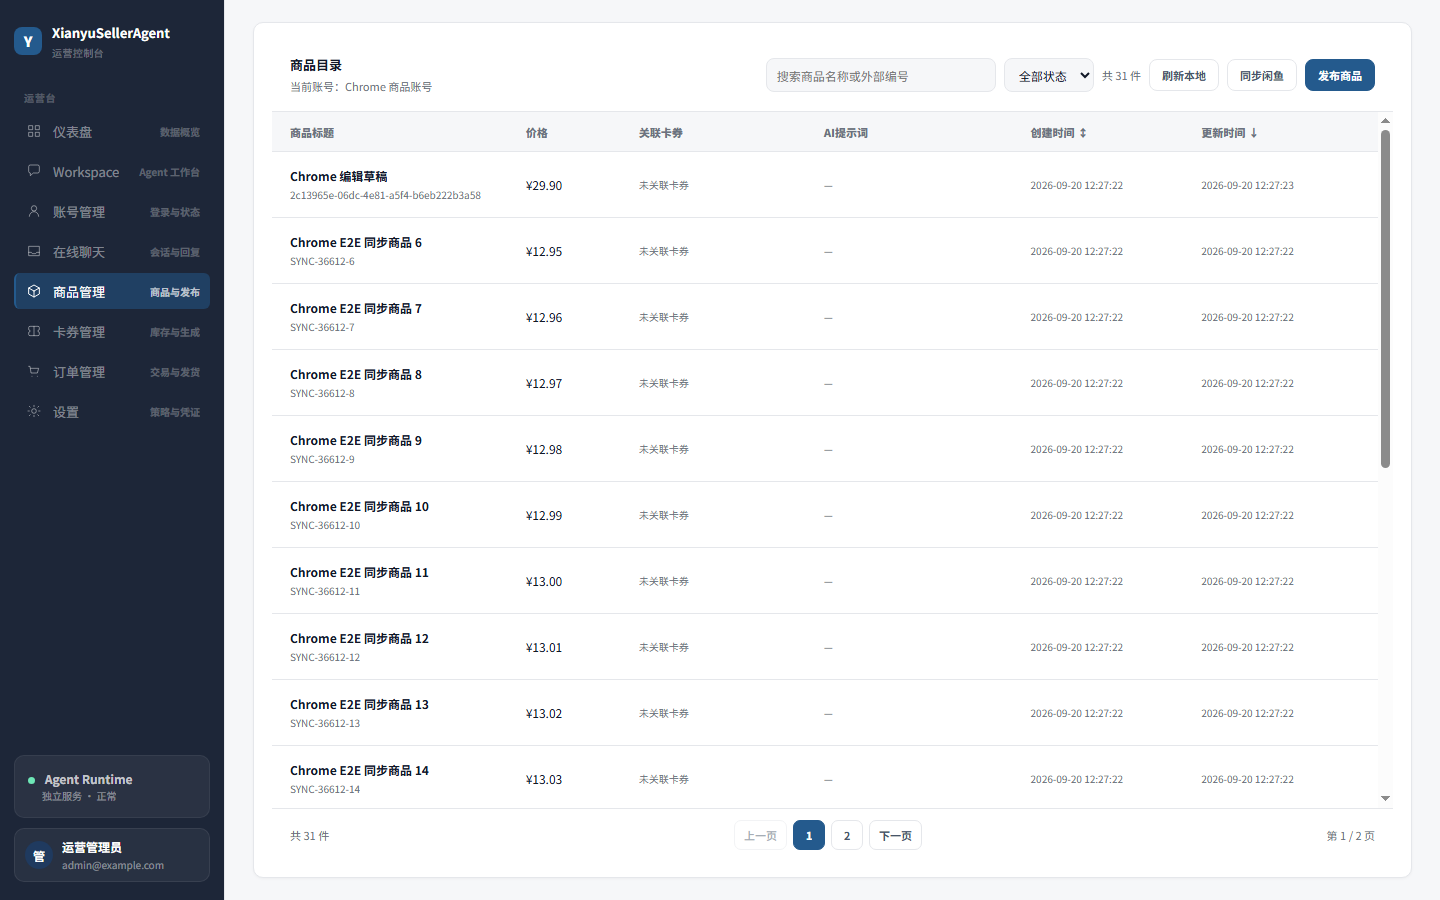
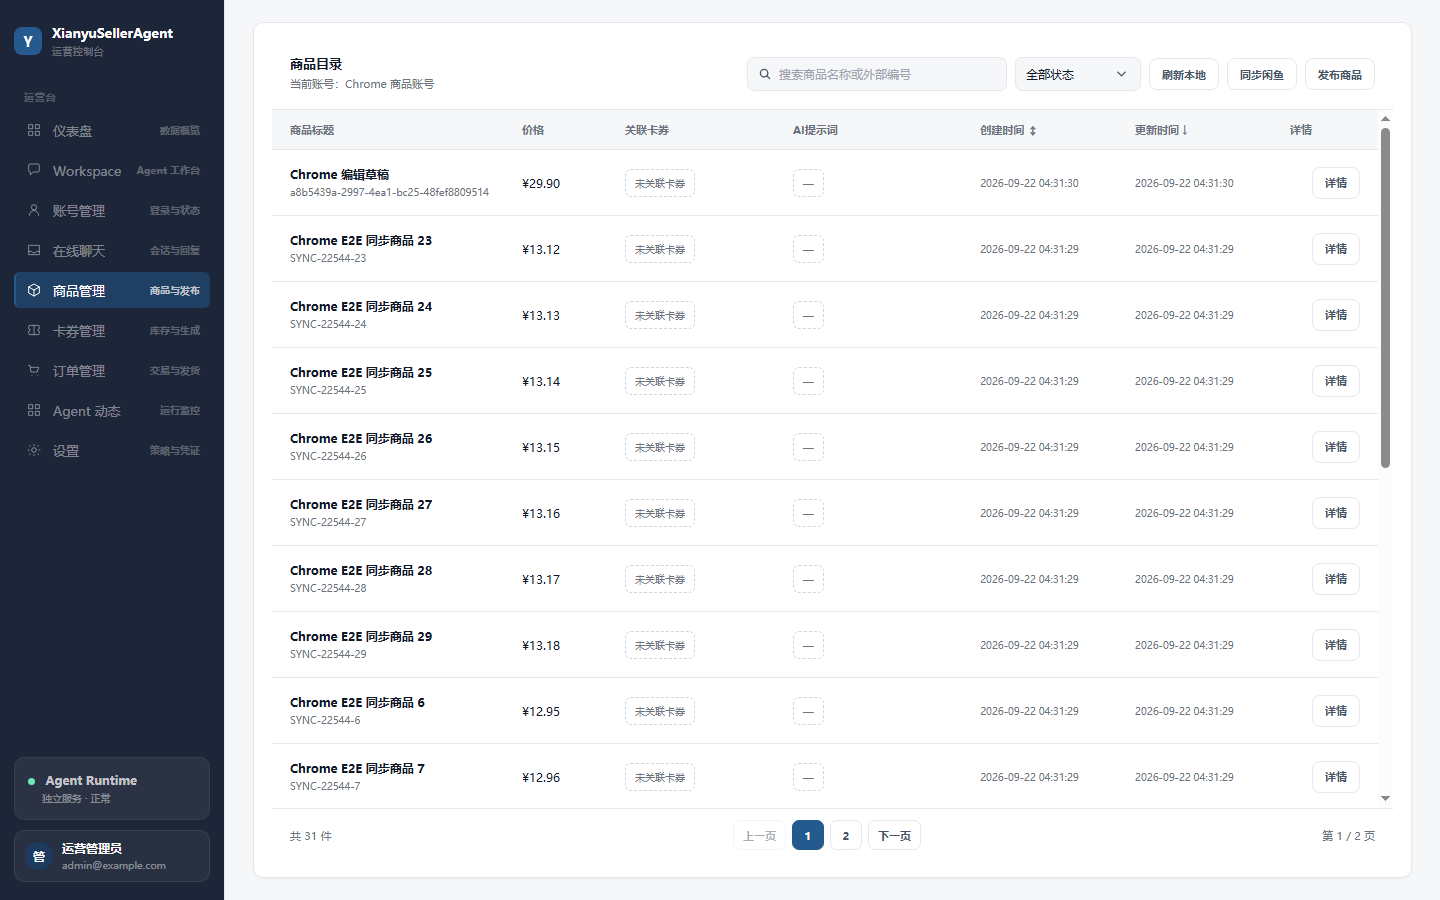
feat(商品详情): 接入系统登录态与数据库优先详情抽屉

diff --git a/apps/web/src/features/products/components/XianyuDetailDrawer.tsx b/apps/web/src/features/products/components/XianyuDetailDrawer.tsx
@@ -1,3 +1,4 @@
+import { useState } from 'react';
 import type { XianyuDetailState, XianyuItemDetailVM, XianyuItemImageVM } from '../types';
 
 export function XianyuDetailDrawer({ state, onClose, onRetry, onSync }: { state: XianyuDetailState; onClose: () => void; onRetry: () => void; onSync: () => void }) {
@@ -10,10 +11,11 @@ export function XianyuDetailDrawer({ state, onClose, onRetry, onSync }: { state:
           <p className="eyebrow">Xianyu Item Detail</p>
           <h2>{detail?.title ?? '闲鱼商品详情'}</h2>
           {detail?.itemId && <p className="xianyu-detail-subtitle">闲鱼商品 ID：{detail.itemId}</p>}
+          {detail && <p className="xianyu-detail-source-note">{detail.cached ? '已读取数据库中的已保存详情' : '已从闲鱼同步并保存详情'}</p>}
         </div>
         <div className="products-detail-header-actions"><button className="btn ghost btn-small" type="button" onClick={onSync} disabled={state.phase === 'loading' || !detail}>同步闲鱼</button><button className="icon-button" type="button" aria-label="关闭闲鱼商品详情" onClick={onClose}>×</button></div>
       </header>
-      {state.phase === 'loading' && <div className="products-detail-state" aria-live="polite"><span className="xianyu-detail-spinner" />正在读取并保存闲鱼商品详情…</div>}
+      {state.phase === 'loading' && <div className="products-detail-state" aria-live="polite"><span className="xianyu-detail-spinner" />{state.loadingMode === 'sync' ? '正在同步并保存闲鱼商品详情…' : '正在读取闲鱼商品详情（优先使用已保存缓存）…'}</div>}
       {(state.phase === 'error' || state.phase === 'forbidden') && <div className="products-detail-state products-error" role="alert"><strong>{state.phase === 'forbidden' ? '无权查看闲鱼商品详情' : '闲鱼商品详情加载失败'}</strong><span>{state.error?.message ?? '商品详情不存在或暂时不可用。'}</span>{state.phase === 'error' && state.error?.retryable && <button className="btn ghost" type="button" onClick={onRetry}>重新加载</button>}</div>}
       {state.phase === 'success' && detail && <XianyuDetailContent detail={detail} />}
     </aside>
@@ -70,7 +72,13 @@ function XianyuDetailContent({ detail }: { detail: XianyuItemDetailVM }) {
 
 function ImageTile({ image, index }: { image: XianyuItemImageVM; index: number }) {
   const previewUrl = [image.thumbnailUrl, image.url].find((value) => isRenderableImageUrl(value));
-  return <figure className="xianyu-detail-image">{previewUrl ? <img src={previewUrl} alt={image.alt ?? `商品图片 ${index + 1}`} loading="lazy" /> : <div className="xianyu-detail-image-placeholder">对象存储图片<br /><small>{image.storageKey ?? '等待访问地址'}</small></div>}<figcaption>{image.storageKey ? `对象存储 · ${image.storageKey}` : `图片 ${index + 1}`}</figcaption></figure>;
+  const [status, setStatus] = useState<'loading' | 'loaded' | 'failed'>(previewUrl ? 'loading' : 'failed');
+  const showImage = Boolean(previewUrl && status === 'loaded');
+  return <figure className="xianyu-detail-image">
+    {!showImage && <div className="xianyu-detail-image-placeholder">对象存储图片<br /><small>{image.storageKey ?? '等待访问地址'}</small></div>}
+    {previewUrl && <img src={previewUrl} alt={image.alt ?? `商品图片 ${index + 1}`} loading="lazy" style={{ display: showImage ? 'block' : 'none' }} onLoad={() => setStatus('loaded')} onError={() => setStatus('failed')} />}
+    <figcaption>{image.storageKey ? `对象存储 · ${image.storageKey}` : `图片 ${index + 1}`}</figcaption>
+  </figure>;
 }
 
 function isRenderableImageUrl(value?: string): value is string {

diff --git a/apps/web/src/features/products/controller.ts b/apps/web/src/features/products/controller.ts
@@ -40,6 +40,7 @@ export interface ProductsController {
   openProduct: (productId: string) => Promise<void>;
   closeProduct: () => void;
   openXianyuDetail: (productId: string) => Promise<void>;
+  syncXianyuDetail: (productId: string) => Promise<void>;
   closeXianyuDetail: () => void;
   createDraft: (input: ProductDraftInput) => Promise<ProductVM | null>;
   updateDraft: (productId: string, patch: ProductDraftPatch, configVersion: number) => Promise<ProductVM | null>;
@@ -96,10 +97,23 @@ export function useProductsController(options: { api?: ProductsApi; initialFilte
   const closeProduct = useCallback(() => { detailRequestId.current += 1; setDetail({ phase: 'idle', data: null, error: null }); }, []);
   const openXianyuDetail = useCallback(async (productId: string) => {
     const currentRequest = ++xianyuDetailRequestId.current;
-    setXianyuDetail({ phase: 'loading', productId, data: null, error: null });
+    setXianyuDetail({ phase: 'loading', loadingMode: 'read', productId, data: null, error: null });
     try {
-      // The POST endpoint performs the real MTOP fetch and persists normalized detail
-      // plus object-storage image references. A later GET can rehydrate the same data.
+      // GET reads the persisted snapshot; the backend only fetches live data when
+      // no snapshot exists yet.
+      const data = await productsApi.getXianyuDetail(productId);
+      if (currentRequest !== xianyuDetailRequestId.current) return;
+      setXianyuDetail({ phase: 'success', productId, data, error: null });
+    } catch (error) {
+      if (currentRequest !== xianyuDetailRequestId.current) return;
+      const normalized = toProductsLoadError(error);
+      setXianyuDetail({ phase: normalized.code === 'FORBIDDEN' ? 'forbidden' : 'error', productId, data: null, error: normalized });
+    }
+  }, [productsApi]);
+  const syncXianyuDetail = useCallback(async (productId: string) => {
+    const currentRequest = ++xianyuDetailRequestId.current;
+    setXianyuDetail({ phase: 'loading', loadingMode: 'sync', productId, data: null, error: null });
+    try {
       const data = await productsApi.syncXianyuDetail(productId);
       if (currentRequest !== xianyuDetailRequestId.current) return;
       setXianyuDetail({ phase: 'success', productId, data, error: null });
@@ -156,5 +170,5 @@ export function useProductsController(options: { api?: ProductsApi; initialFilte
   }, [productsApi, reload]);
   const clearMutation = useCallback(() => setMutation({ phase: 'idle', error: null }), []);
 
-  return { filters, setFilters, setKeyword, reload, openProduct, closeProduct, openXianyuDetail, closeXianyuDetail, createDraft, updateDraft, syncFromXianyu, clearMutation, state, detail, xianyuDetail, mutation };
+  return { filters, setFilters, setKeyword, reload, openProduct, closeProduct, openXianyuDetail, syncXianyuDetail, closeXianyuDetail, createDraft, updateDraft, syncFromXianyu, clearMutation, state, detail, xianyuDetail, mutation };
 }

diff --git a/apps/api/src/xianyu-mtop.ts b/apps/api/src/xianyu-mtop.ts
@@ -287,9 +287,17 @@ export class XianyuMtopClient {
       const isSellerOrders = api === SOLD_ORDERS_API;
       const documentUrl = requestOptions.referer ?? (isSellerOrders ? SOLD_ORDERS_REFERER : 'https://www.goofish.com/im');
       const requestUrl = `${BASE_URL}/${api}/${version}/`;
-      const signingCookieHeader = cookieSnapshot ? cookieHeaderForSigning(cookieSnapshot, documentUrl, XIANYU_TOP_SITE) : cookieHeader;
-      const requestCookieHeader = cookieSnapshot ? cookieHeaderForUrl(cookieSnapshot, requestUrl, Date.now(), XIANYU_TOP_SITE) : cookieHeader;
-      const token = (cookieSnapshot ? cookieValue(signingCookieHeader, '_m_h5_tk') : cookieValue(cookieHeader, '_m_h5_tk')).split('_', 1)[0] ?? '';
+      const snapshotSigningCookieHeader = cookieSnapshot ? cookieHeaderForSigning(cookieSnapshot, documentUrl, XIANYU_TOP_SITE) : '';
+      const snapshotRequestCookieHeader = cookieSnapshot ? cookieHeaderForUrl(cookieSnapshot, requestUrl, Date.now(), XIANYU_TOP_SITE) : '';
+      const snapshotToken = cookieValue(snapshotSigningCookieHeader, '_m_h5_tk');
+      // A persisted browser snapshot can outlive its in-memory expiry metadata.
+      // If the raw saved cookie still contains _m_h5_tk, replay it and let MTOP
+      // return the authoritative session-expired response instead of failing
+      // locally with MTOP_TOKEN_MISSING.
+      const useSnapshot = Boolean(snapshotToken);
+      const signingCookieHeader = useSnapshot ? snapshotSigningCookieHeader : cookieHeader;
+      const requestCookieHeader = useSnapshot ? snapshotRequestCookieHeader : cookieHeader;
+      const token = (useSnapshot ? snapshotToken : cookieValue(cookieHeader, '_m_h5_tk')).split('_', 1)[0] ?? '';
       if (!token) return { success: false, accountInvalid: true, errorCode: 'MTOP_TOKEN_MISSING', message: 'credential does not contain _m_h5_tk', cookieHeader };
       const timestamp = String(Date.now());
       const params = new URLSearchParams({
@@ -328,9 +336,10 @@ export class XianyuMtopClient {
           signal: AbortSignal.timeout(this.timeoutMs),
         });
         const setCookies = setCookieValues(response.headers);
-        if (cookieSnapshot) {
-          if (setCookies.length > 0) cookieSnapshot = applySetCookies(cookieSnapshot, requestUrl, setCookies, Date.now(), XIANYU_TOP_SITE);
-          cookieHeader = cookieHeaderFromSnapshot(cookieSnapshot);
+        if (cookieSnapshot && setCookies.length > 0) {
+          cookieSnapshot = applySetCookies(cookieSnapshot, requestUrl, setCookies, Date.now(), XIANYU_TOP_SITE);
+          const snapshotCookieHeader = cookieHeaderFromSnapshot(cookieSnapshot);
+          if (cookieValue(snapshotCookieHeader, '_m_h5_tk')) cookieHeader = snapshotCookieHeader;
         } else if (setCookies.length > 0) {
           cookieHeader = mergeCookies(cookieHeader, setCookies);
         }

diff --git a/apps/web/src/features/products/components/ProductsPage.tsx b/apps/web/src/features/products/components/ProductsPage.tsx
@@ -39,7 +39,7 @@ export function ProductsPage({ api: providedApi }: ProductsPageProps) {
         <ProductListStateView phase={controller.state.phase} error={controller.state.error} onRetry={controller.reload} accountSelectionRequired={contextMissing} />
       </article>
       <ProductDetailPanel state={controller.detail} onClose={controller.closeProduct} onRetry={() => controller.detail.productId && controller.openProduct(controller.detail.productId)} onEdit={(product) => { controller.closeProduct(); controller.clearMutation(); setDrawer({ mode: 'edit', product }); }} />
-      <XianyuDetailDrawer state={controller.xianyuDetail} onClose={controller.closeXianyuDetail} onRetry={() => controller.xianyuDetail.productId && controller.openXianyuDetail(controller.xianyuDetail.productId)} />
+      <XianyuDetailDrawer state={controller.xianyuDetail} onClose={controller.closeXianyuDetail} onRetry={() => controller.xianyuDetail.productId && controller.openXianyuDetail(controller.xianyuDetail.productId)} onSync={() => controller.xianyuDetail.productId && controller.syncXianyuDetail(controller.xianyuDetail.productId)} />
       {drawer && <ProductDrawer mode={drawer.mode} accountId={currentAccountId} product={drawer.product} error={controller.mutation.error} saving={controller.mutation.phase === 'saving'} onClose={() => setDrawer(null)} onCreate={async (values) => Boolean(await controller.createDraft(values))} onUpdate={async (productId, patch, configVersion) => Boolean(await controller.updateDraft(productId, patch, configVersion))} />}
       {accountsError && <div className="products-inline-error" role="alert">账号上下文加载失败：{accountsError}</div>}
     </section>

diff --git a/apps/api/scripts/xianyu-mtop-cookie-fallback.test.ts b/apps/api/scripts/xianyu-mtop-cookie-fallback.test.ts
@@ -1,0 +1,24 @@
+import assert from 'node:assert/strict';
+import test from 'node:test';
+import { XianyuMtopClient } from '../src/xianyu-mtop.js';
+
+test('replays raw saved cookie when persisted snapshot has expired _m_h5_tk metadata', async () => {
+  const originalFetch = globalThis.fetch;
+  const staleSnapshot = JSON.stringify([{ name: '_m_h5_tk', value: 'token_value_1', domain: '.goofish.com', path: '/', secure: true, expires: Math.floor(Date.now() / 1000) - 60 }]);
+  let requestCookie = '';
+  globalThis.fetch = async (_input, init) => {
+    requestCookie = String((init?.headers as Record<string, string> | undefined)?.cookie ?? '');
+    return new Response(JSON.stringify({ ret: ['SUCCESS::调用成功'], data: { itemTopicList: [], totalCount: 0, nextPage: false } }), { status: 200, headers: { 'content-type': 'application/json' } });
+  };
+  try {
+    const client = new XianyuMtopClient({
+      loadCredential: async () => ({ cookieHeader: '_m_h5_tk=token_value_1; unb=1903703477', metadata: { cookies_refresh_snapshot: staleSnapshot } }),
+      saveCookie: async () => undefined,
+    });
+    const result = await client.fetchItemsPage('admin-1', 'account-1');
+    assert.equal(result.success, true);
+    assert.match(requestCookie, /_m_h5_tk=token_value_1/);
+  } finally {
+    globalThis.fetch = originalFetch;
+  }
+});

diff --git a/apps/web/src/features/products/api.ts b/apps/web/src/features/products/api.ts
@@ -187,7 +187,7 @@ function imageValue(value: unknown, index: number): XianyuItemImageVM | null {
   if (!value || typeof value !== 'object' || Array.isArray(value)) return null;
   const candidate = value as Record<string, unknown>;
   const metadata = candidate.metadata && typeof candidate.metadata === 'object' && !Array.isArray(candidate.metadata) ? candidate.metadata as Record<string, unknown> : {};
-  const url = stringValue(candidate.url, candidate.imageUrl, candidate.image_url, candidate.objectUrl, candidate.object_url, candidate.publicUrl, candidate.public_url, metadata.url, metadata.publicUrl, metadata.public_url, candidate.sourceUrl, candidate.source_url, candidate.src);
+  const url = stringValue(candidate.url, candidate.imageUrl, candidate.image_url, candidate.sourceUrl, candidate.source_url, candidate.objectUrl, candidate.object_url, candidate.publicUrl, candidate.public_url, metadata.url, metadata.publicUrl, metadata.public_url, candidate.src);
   const storageKey = stringValue(candidate.storageKey, candidate.storage_key, candidate.key);
   if (!url && !storageKey) return null;
   return {

diff --git a/apps/web/src/features/products/components/products.css b/apps/web/src/features/products/components/products.css
@@ -61,6 +61,7 @@
 .products-detail-body p { margin: 0; color: var(--sub); font-size: 12px; line-height: 1.6; white-space: pre-wrap; }
 .xianyu-detail-drawer { width: min(620px, 100vw); }
 .xianyu-detail-subtitle { margin: 5px 0 0; color: var(--sub); font-size: 10px; }
+.xianyu-detail-source-note { margin: 3px 0 0; color: var(--success); font-size: 10px; font-weight: 700; }
 .xianyu-detail-body { display: grid; gap: 20px; padding-top: 20px; padding-bottom: 30px; }
 .xianyu-detail-body section { display: grid; gap: 10px; }
 .xianyu-detail-body h3 { margin: 0; font-size: 12px; }

diff --git a/apps/web/src/features/products/types.ts b/apps/web/src/features/products/types.ts
@@ -175,6 +175,7 @@ export interface XianyuItemDetailVM {
 
 export interface XianyuDetailState {
   phase: 'idle' | 'loading' | 'success' | 'error' | 'forbidden';
+  loadingMode?: 'read' | 'sync';
   productId?: string;
   data: XianyuItemDetailVM | null;
   error: ProductsLoadError | null;

diff --git a/docs/agent-worktree-registry.md b/docs/agent-worktree-registry.md
@@ -84,6 +84,7 @@
 | `root/backend_chat` | `chat-live-auto-reply` | `codex/chat-live-auto-reply` | `F:\ChenHai\Project\XianYuAgent-chat-live-fix` | Codex `/root` delegated agent | `2026-09-21 00:00:00 +08:00` | `MERGED` | `4001dd6` | `-` | 补充 deferAutoReply→inbox worker→realtime 双消息事件回归已合入主线；API typecheck、auto-reply E2E 4/4、auto-reply unit 46/46、真实 PostgreSQL/Redis 组合脚本均通过，未复现后端丢消息。 |
 
 | `root` | `xianyu-item-detail` | `codex/xianyu-item-detail` | `F:\ChenHai\Project\XianYuAgent-item-detail` | Codex `/root` | `2026-09-22 11:08:00 +08:00` | `REGISTERED` | `-` | `-` | 复用当前已登录 Chrome 商品页抓取真实 MTOP 详情请求；补齐详情参数、原始响应保留与价格/浏览/想要/描述字段映射。 |
+| `root` | `xianyu-item-detail-integration` | `codex/xianyu-item-detail-integration` | `F:\ChenHai\Project\XianYuAgent-item-detail-integration` | Codex `/root` | `2026-09-22 11:20:00 +08:00` | `READY_FOR_MERGE` | `-` | `-` | 商品详情 DB-first、显式闲鱼同步、对象存储图片、系统数据库登录态 live E2E 与截图审核已通过；待锁内合入 main。 |
 
 ## 主工作区
 
